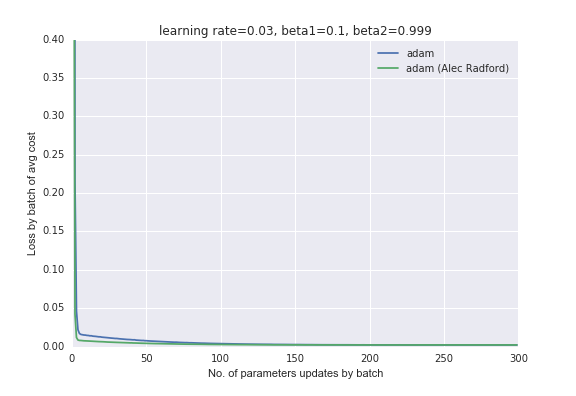
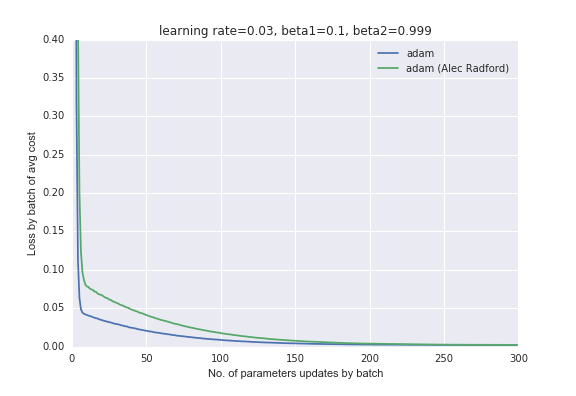
add

Changed region(s): [[0.125, 0.0909, 0.7812, 0.8788], [0.1875, 0.7576, 0.25, 0.7879]]

diff --git a/10_adam2.py b/10_adam2.py
@@ -71,8 +71,8 @@ his_v_dw = []
 his_v_db = []
 def calc_adam(x, y, i):
         
-    beta1 = 0.9 # momentum
-    beta2 = 0.001 # rmsprop
+    beta1 = 0.1 # momentum
+    beta2 = 0.999 # rmsprop
     lr = 0.03
     e=1e-8    
     
@@ -124,7 +124,7 @@ def calc_adam(x, y, i):
 
 ###############################################################################
 ### adam (Alec Radford)
-def Adam2(cost, params, lr=0.03, b1=0.9, b2=0.001, e=1e-8):
+def Adam2(cost, params, lr=0.03, b1=0.1, b2=0.999, e=1e-8):
     updates = []
     grads = T.grad(cost, params)
     i = theano.shared(floatX(0.))
@@ -216,7 +216,7 @@ print '(closed-fom) w=0.0639, b= 0.7502'
 plt.plot(his_cost_by_adam.iloc[:, 0], label='adam')
 plt.plot(his_cost_by_adam2.iloc[:, 0], label='adam (Alec Radford)')
 plt.legend()
-plt.title("learning rate=0.03, beta1=0.9, beta2=0.001")
+plt.title("learning rate=0.03, beta1=0.1, beta2=0.999")
 plt.xlabel("No. of parameters updates by batch")
 plt.ylabel("Loss by batch of avg cost")
 plt.ylim([0, 0.4])
